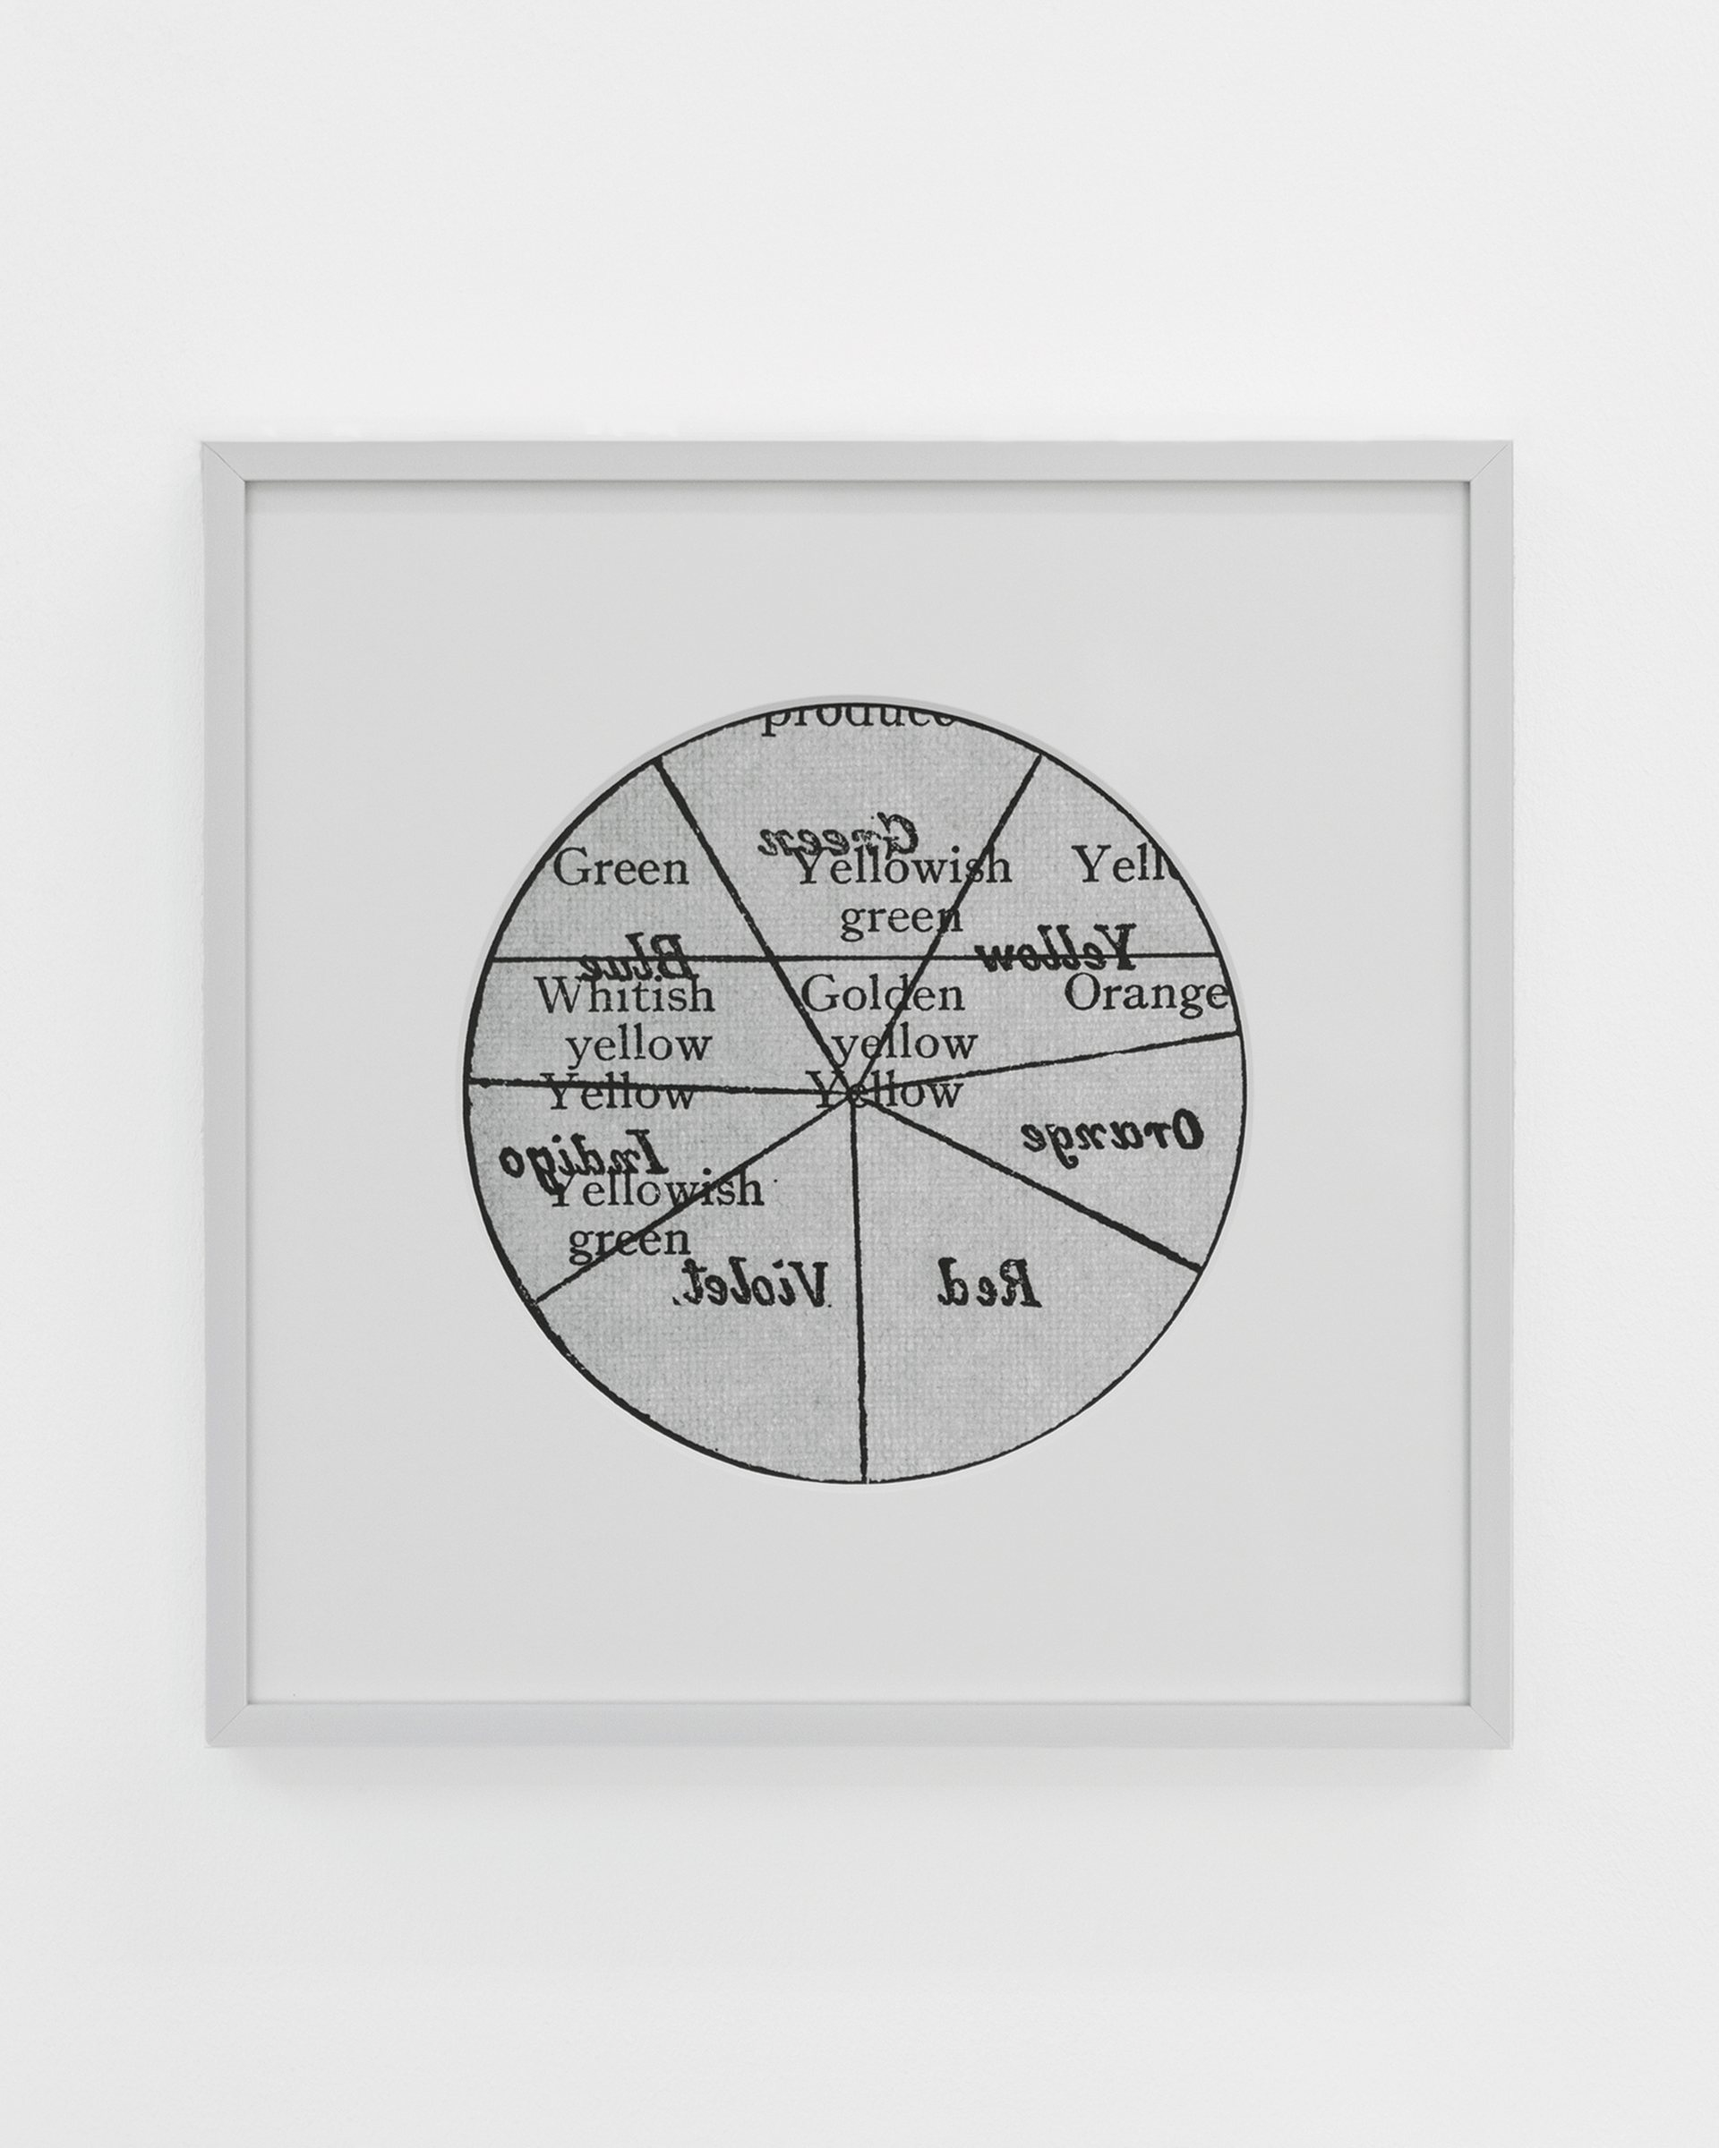
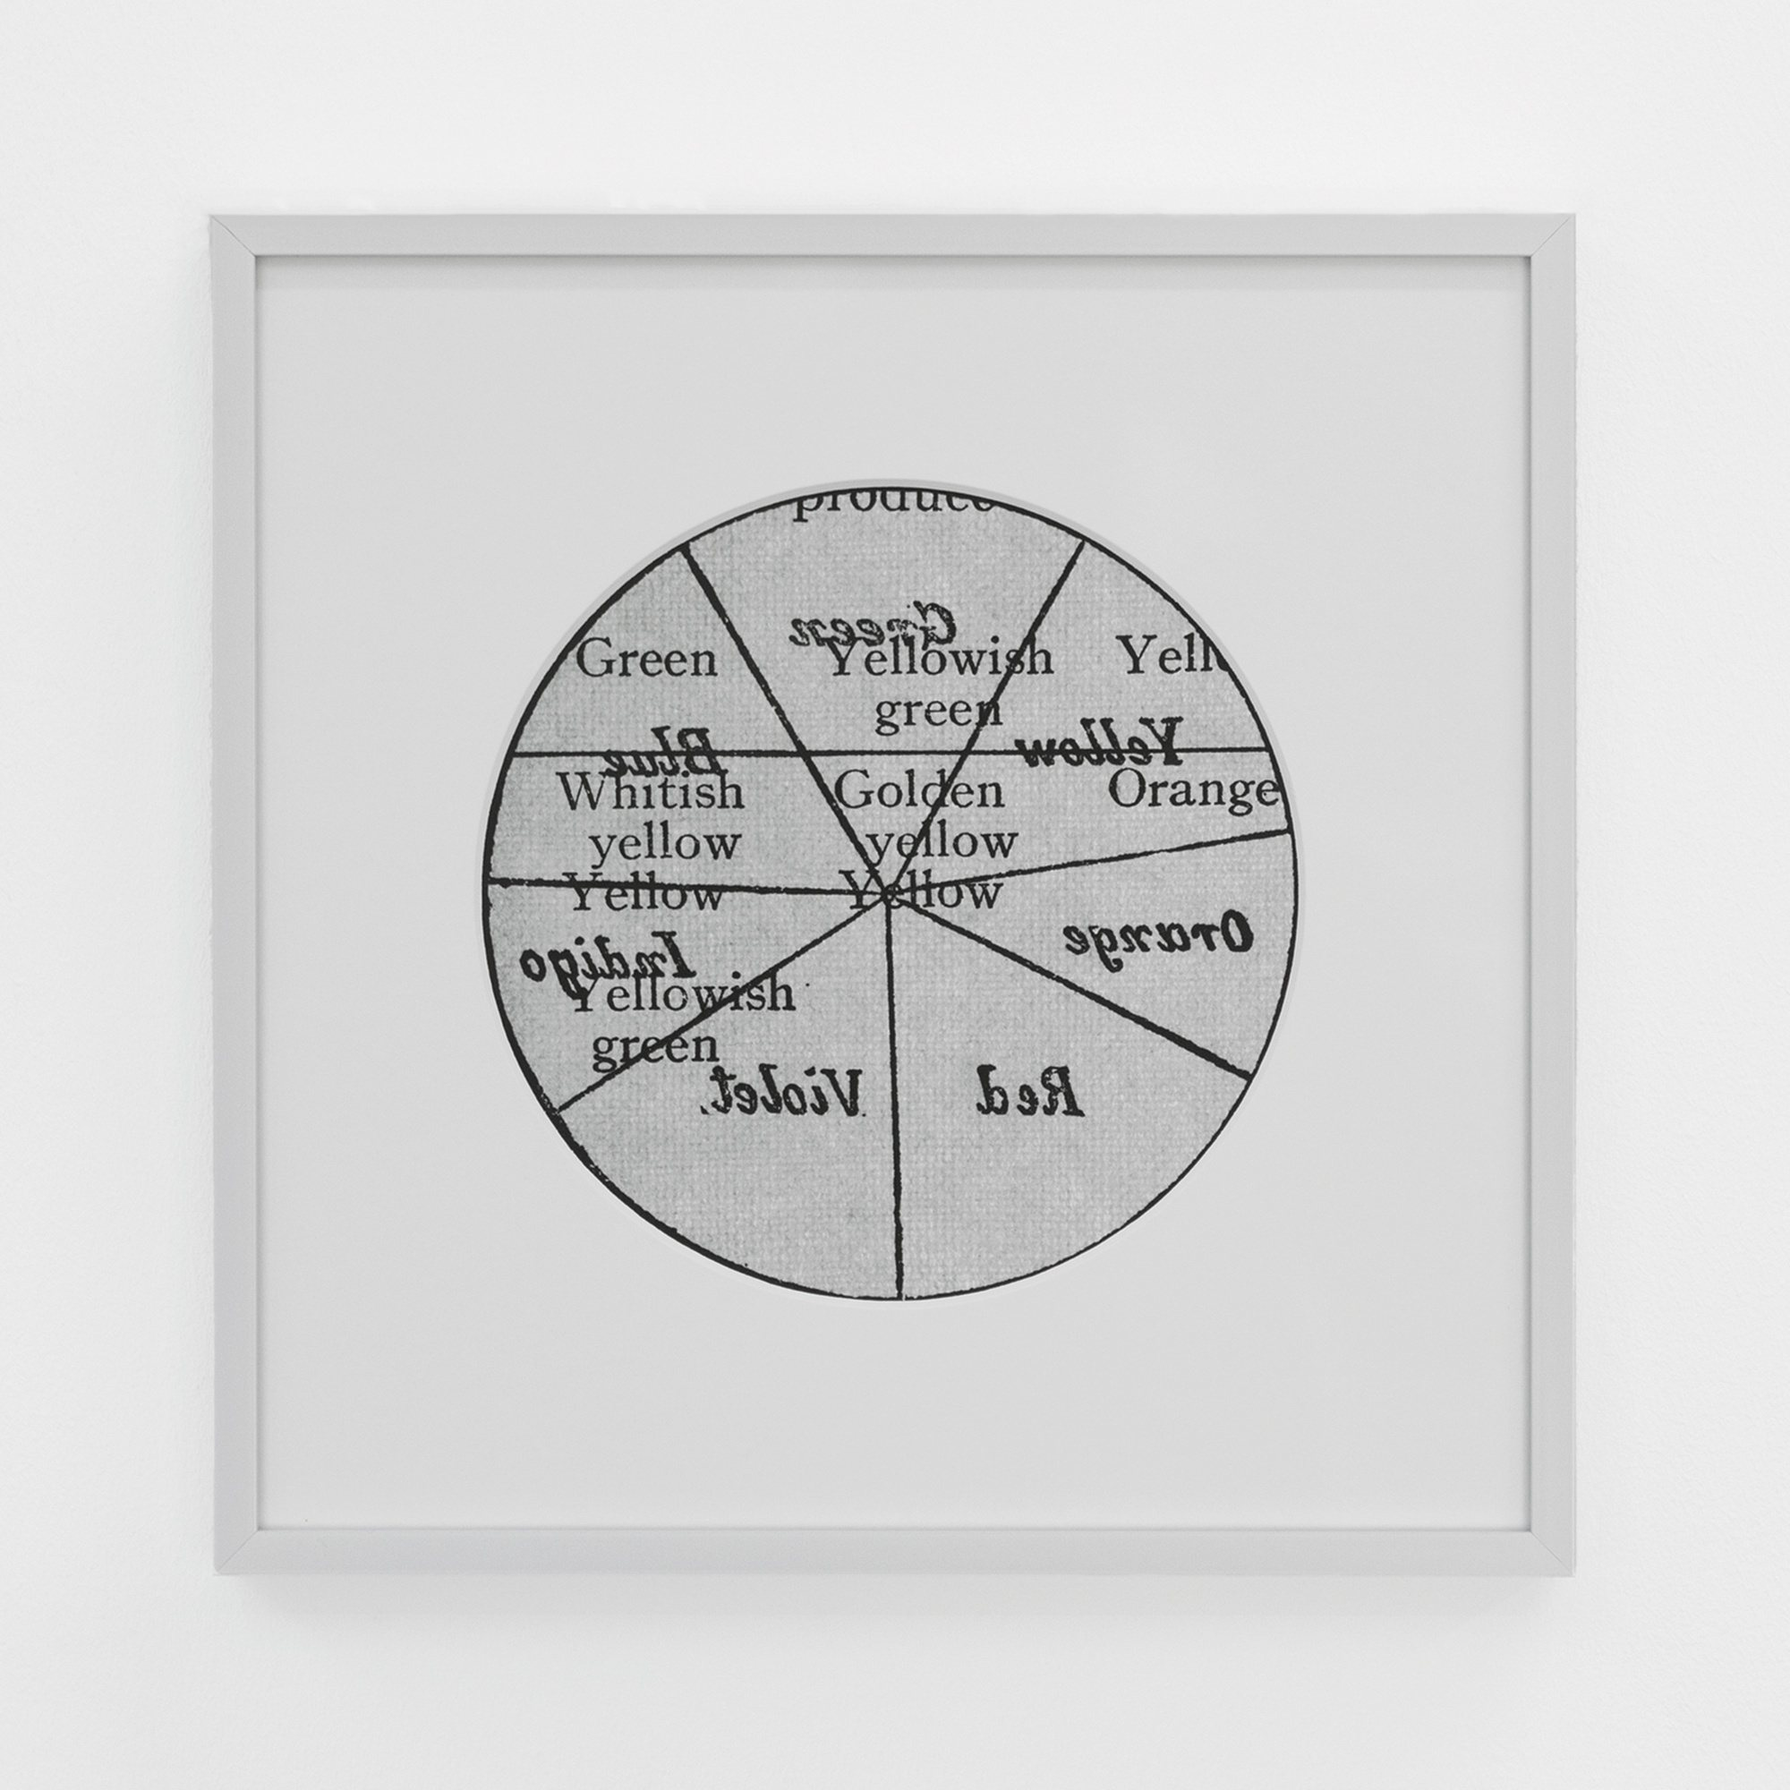
Contact: square crop of lead image
Claude-Session: https://claude.ai/code/session_01JVoaYGW79WXXRpj5iE4Fxm

diff --git a/index.html b/index.html
@@ -6,5 +6,5 @@
 <link rel="stylesheet" href="style.css?v=44dcabf0">
 </head><body>
 <header><a class="name" href="index.html">Abraham Adams</a><nav><a href="index.html" aria-current="page">projects</a><a href="books.html">books</a><a href="exhibitions.html">exhibitions</a><a href="cv.html">cv</a><a href="info.html">info</a></nav></header>
-<main><h1 class="index-title">Selected projects, 2014–26</h1><div class="grid"><a class="tile" href="projects/acheiropoieton.html"><span class="frame"><span class="fit" style="width:62.2%"><img src="img/acheiropoieton-01-t.jpg?v=4d309b16" width="671" height="900" alt="Acheiropoieton" loading="lazy"></span></span><span class="label">“Acheiropoieton,” 2026–</span></a><a class="tile" href="projects/variations-for-the-healing.html"><span class="frame"><span class="fit" style="width:58.8%"><img src="img/variations-for-the-healing-01-t.jpg?v=fa79aa3e" width="600" height="900" alt="Variations for the Healing" loading="lazy"></span></span><span class="label"><em>Variations for the Healing</em>, 2025–26</span></a><a class="tile" href="projects/a-conversation-about-trees.html"><span class="frame"><span class="fit" style="width:83.1%"><img src="img/a-conversation-about-trees-01-t.jpg?v=6b8445a5" width="900" height="675" alt="A Conversation About Trees" loading="lazy"></span></span><span class="label"><em>A Conversation About Trees</em>, 2025</span></a><a class="tile" href="projects/more-heavens.html"><span class="frame"><span class="fit" style="width:88.2%"><img src="img/more-heavens-01-t.jpg?v=10669583" width="900" height="600" alt="More Heavens" loading="lazy"></span></span><span class="label">“More Heavens,” 2025–</span></a><a class="tile" href="projects/contact.html"><span class="frame"><span class="fit" style="width:64.4%"><img src="img/contact-01-t.jpg?v=4efacc83" width="720" height="900" alt="Contact" loading="lazy"></span></span><span class="label">“Contact,” 2024–</span></a><a class="tile" href="projects/after.html"><span class="frame"><span class="fit" style="width:83.1%"><img src="img/after-01-t.jpg?v=29d5f685" width="900" height="675" alt="After" loading="lazy"></span></span><span class="label">“After,” 2021–23</span></a><a class="tile" href="projects/ambulance-chasers.html"><span class="frame"><span class="fit" style="width:80.5%"><img src="img/ambulance-chasers-01-t.jpg?v=01d89bef" width="900" height="720" alt="Ambulance Chasers" loading="lazy"></span></span><span class="label"><em>Ambulance Chasers</em>, MIT Press, 2022</span></a><a class="tile" href="projects/tony-the-drunk-is-a-thief.html"><span class="frame"><span class="fit" style="width:92.3%"><img src="img/tony-the-drunk-is-a-thief-01-t.jpg?v=b5f1e943" width="900" height="548" alt="Tony the Drunk Is a Thief" loading="lazy"></span></span><span class="label"><em>Tony the Drunk Is a Thief</em>, 2018</span></a><a class="tile" href="projects/nothing-in-moma.html"><span class="frame"><span class="fit" style="width:88.1%"><img src="img/nothing-in-moma-01-t.jpg?v=5ce2273e" width="900" height="601" alt="Nothing in MoMA" loading="lazy"></span></span><span class="label"><em>Nothing in MoMA</em>, Punctum Books, 2018</span></a><a class="tile" href="projects/before.html"><span class="frame"><span class="fit" style="width:80.5%"><img src="img/before-01-t.jpg?v=98168e20" width="900" height="720" alt="Before" loading="lazy"></span></span><span class="label">“Before,” 2016–</span></a><a class="tile" href="projects/my-dark-blue-rain-drenched-flower.html"><span class="frame"><span class="fit" style="width:85.6%"><img src="img/my-dark-blue-rain-drenched-flower-01-t.jpg?v=5946757f" width="900" height="637" alt="My Dark-Blue Rain-Drenched Flower" loading="lazy"></span></span><span class="label"><em>My Dark-Blue Rain-Drenched Flower</em>, 2015</span></a><a class="tile" href="projects/installation-for-a-photograph.html"><span class="frame"><span class="fit" style="width:62.3%"><img src="img/installation-for-a-photograph-01-t.jpg?v=0d1e7c6d" width="674" height="900" alt="Installation for a Photograph" loading="lazy"></span></span><span class="label"><em>Installation for a Photograph</em>, 2014–15</span></a></div></main>
+<main><h1 class="index-title">Selected projects, 2014–26</h1><div class="grid"><a class="tile" href="projects/acheiropoieton.html"><span class="frame"><span class="fit" style="width:62.2%"><img src="img/acheiropoieton-01-t.jpg?v=4d309b16" width="671" height="900" alt="Acheiropoieton" loading="lazy"></span></span><span class="label">“Acheiropoieton,” 2026–</span></a><a class="tile" href="projects/variations-for-the-healing.html"><span class="frame"><span class="fit" style="width:58.8%"><img src="img/variations-for-the-healing-01-t.jpg?v=fa79aa3e" width="600" height="900" alt="Variations for the Healing" loading="lazy"></span></span><span class="label"><em>Variations for the Healing</em>, 2025–26</span></a><a class="tile" href="projects/a-conversation-about-trees.html"><span class="frame"><span class="fit" style="width:83.1%"><img src="img/a-conversation-about-trees-01-t.jpg?v=6b8445a5" width="900" height="675" alt="A Conversation About Trees" loading="lazy"></span></span><span class="label"><em>A Conversation About Trees</em>, 2025</span></a><a class="tile" href="projects/more-heavens.html"><span class="frame"><span class="fit" style="width:88.2%"><img src="img/more-heavens-01-t.jpg?v=10669583" width="900" height="600" alt="More Heavens" loading="lazy"></span></span><span class="label">“More Heavens,” 2025–</span></a><a class="tile" href="projects/contact.html"><span class="frame"><span class="fit" style="width:72.0%"><img src="img/contact-01-t.jpg?v=c0aa1a8e" width="900" height="900" alt="Contact" loading="lazy"></span></span><span class="label">“Contact,” 2024–</span></a><a class="tile" href="projects/after.html"><span class="frame"><span class="fit" style="width:83.1%"><img src="img/after-01-t.jpg?v=29d5f685" width="900" height="675" alt="After" loading="lazy"></span></span><span class="label">“After,” 2021–23</span></a><a class="tile" href="projects/ambulance-chasers.html"><span class="frame"><span class="fit" style="width:80.5%"><img src="img/ambulance-chasers-01-t.jpg?v=01d89bef" width="900" height="720" alt="Ambulance Chasers" loading="lazy"></span></span><span class="label"><em>Ambulance Chasers</em>, MIT Press, 2022</span></a><a class="tile" href="projects/tony-the-drunk-is-a-thief.html"><span class="frame"><span class="fit" style="width:92.3%"><img src="img/tony-the-drunk-is-a-thief-01-t.jpg?v=b5f1e943" width="900" height="548" alt="Tony the Drunk Is a Thief" loading="lazy"></span></span><span class="label"><em>Tony the Drunk Is a Thief</em>, 2018</span></a><a class="tile" href="projects/nothing-in-moma.html"><span class="frame"><span class="fit" style="width:88.1%"><img src="img/nothing-in-moma-01-t.jpg?v=5ce2273e" width="900" height="601" alt="Nothing in MoMA" loading="lazy"></span></span><span class="label"><em>Nothing in MoMA</em>, Punctum Books, 2018</span></a><a class="tile" href="projects/before.html"><span class="frame"><span class="fit" style="width:80.5%"><img src="img/before-01-t.jpg?v=98168e20" width="900" height="720" alt="Before" loading="lazy"></span></span><span class="label">“Before,” 2016–</span></a><a class="tile" href="projects/my-dark-blue-rain-drenched-flower.html"><span class="frame"><span class="fit" style="width:85.6%"><img src="img/my-dark-blue-rain-drenched-flower-01-t.jpg?v=5946757f" width="900" height="637" alt="My Dark-Blue Rain-Drenched Flower" loading="lazy"></span></span><span class="label"><em>My Dark-Blue Rain-Drenched Flower</em>, 2015</span></a><a class="tile" href="projects/installation-for-a-photograph.html"><span class="frame"><span class="fit" style="width:62.3%"><img src="img/installation-for-a-photograph-01-t.jpg?v=0d1e7c6d" width="674" height="900" alt="Installation for a Photograph" loading="lazy"></span></span><span class="label"><em>Installation for a Photograph</em>, 2014–15</span></a></div></main>
 </body></html>

diff --git a/projects/contact.html b/projects/contact.html
@@ -6,5 +6,5 @@
 <link rel="stylesheet" href="../style.css?v=44dcabf0">
 </head><body>
 <header><a class="name" href="../index.html">Abraham Adams</a><nav><a href="../index.html" aria-current="page">projects</a><a href="../books.html">books</a><a href="../exhibitions.html">exhibitions</a><a href="../cv.html">cv</a><a href="../info.html">info</a></nav></header>
-<main><article class="work"><h1>“Contact,” 2024–</h1><p class="desc">“Contact” is a series of views through antique encyclopedia pages held up to light so that front and back form chance combinations of text and image.</p><blockquote class="quote"><p>“There is a poignancy in any sheet of printed paper—the page is a single material, but what is printed on either side can never touch, never be seen at once. Adams’ photographs stage an imperative to make contact across this conjuncture of sameness and difference—the Janus face of the printed page.”</p><cite>— David Joselit</cite></blockquote><figure><img src="../img/contact-01.jpg?v=cec282c6" width="1920" height="2400" alt="Contact, 2024" loading="eager"><figcaption>Contact, 2024. Framed ink-jet print, 31 cm square. Installation view, “Zygote,” Culterim Gallery, Berlin.</figcaption></figure><figure><img src="../img/contact-02.jpg?v=1a8912a0" width="2400" height="2400" alt="Detail" loading="lazy"><figcaption>Detail.</figcaption></figure><figure><img src="../img/contact-03.jpg?v=68327e1c" width="1920" height="2400" alt="Contact, 2024" loading="lazy"><figcaption>Contact, 2024. Framed ink-jet print, 31 cm square. Installation view, “Zygote,” Culterim Gallery, Berlin.</figcaption></figure><figure><img src="../img/contact-04.jpg?v=c5fde0a6" width="2400" height="2400" alt="Detail" loading="lazy"><figcaption>Detail.</figcaption></figure><figure><img src="../img/contact-05.jpg?v=f6220687" width="1920" height="2400" alt="Contact, 2024" loading="lazy"><figcaption>Contact, 2024. Framed ink-jet print, 31.5 × 29.5 cm. Installation view, “Zygote,” Culterim Gallery, Berlin.</figcaption></figure><figure><img src="../img/contact-06.jpg?v=7635da03" width="2180" height="1774" alt="Detail" loading="lazy"><figcaption>Detail.</figcaption></figure><figure><img src="../img/contact-07.jpg?v=776ce2a5" width="1920" height="2400" alt="Contact, 2024" loading="lazy"><figcaption>Contact, 2024. Framed ink-jet print, 31 cm square.</figcaption></figure><figure><img src="../img/contact-08.jpg?v=7cf73221" width="1920" height="2400" alt="Contact, 2024" loading="lazy"><figcaption>Contact, 2024. Framed ink-jet print, 31 cm square.</figcaption></figure></article></main>
+<main><article class="work"><h1>“Contact,” 2024–</h1><p class="desc">“Contact” is a series of views through antique encyclopedia pages held up to light so that front and back form chance combinations of text and image.</p><blockquote class="quote"><p>“There is a poignancy in any sheet of printed paper—the page is a single material, but what is printed on either side can never touch, never be seen at once. Adams’ photographs stage an imperative to make contact across this conjuncture of sameness and difference—the Janus face of the printed page.”</p><cite>— David Joselit</cite></blockquote><figure><img src="../img/contact-01.jpg?v=aa30c2a7" width="2000" height="2000" alt="Contact, 2024" loading="eager"><figcaption>Contact, 2024. Framed ink-jet print, 31 cm square. Installation view, “Zygote,” Culterim Gallery, Berlin.</figcaption></figure><figure><img src="../img/contact-02.jpg?v=1a8912a0" width="2400" height="2400" alt="Detail" loading="lazy"><figcaption>Detail.</figcaption></figure><figure><img src="../img/contact-03.jpg?v=68327e1c" width="1920" height="2400" alt="Contact, 2024" loading="lazy"><figcaption>Contact, 2024. Framed ink-jet print, 31 cm square. Installation view, “Zygote,” Culterim Gallery, Berlin.</figcaption></figure><figure><img src="../img/contact-04.jpg?v=c5fde0a6" width="2400" height="2400" alt="Detail" loading="lazy"><figcaption>Detail.</figcaption></figure><figure><img src="../img/contact-05.jpg?v=f6220687" width="1920" height="2400" alt="Contact, 2024" loading="lazy"><figcaption>Contact, 2024. Framed ink-jet print, 31.5 × 29.5 cm. Installation view, “Zygote,” Culterim Gallery, Berlin.</figcaption></figure><figure><img src="../img/contact-06.jpg?v=7635da03" width="2180" height="1774" alt="Detail" loading="lazy"><figcaption>Detail.</figcaption></figure><figure><img src="../img/contact-07.jpg?v=776ce2a5" width="1920" height="2400" alt="Contact, 2024" loading="lazy"><figcaption>Contact, 2024. Framed ink-jet print, 31 cm square.</figcaption></figure><figure><img src="../img/contact-08.jpg?v=7cf73221" width="1920" height="2400" alt="Contact, 2024" loading="lazy"><figcaption>Contact, 2024. Framed ink-jet print, 31 cm square.</figcaption></figure></article></main>
 </body></html>
